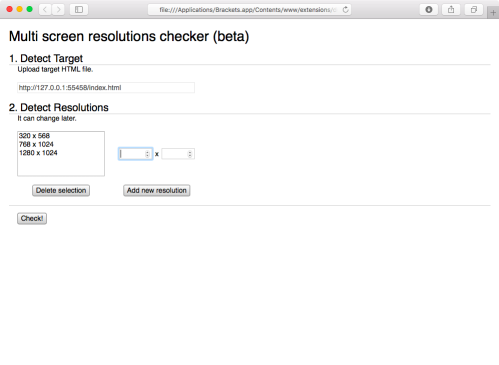
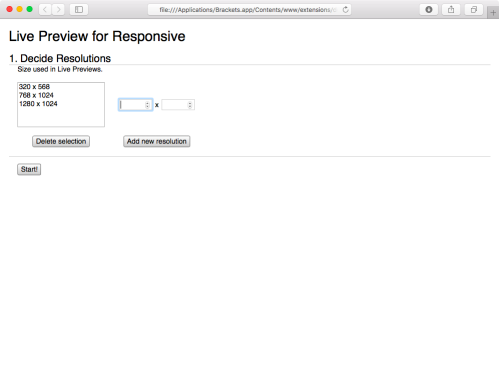
delete "decide target"

diff --git a/www/js/script.js b/www/js/script.js
@@ -16,7 +16,7 @@
   resolutions = null;
 
   init = function(event) {
-    var top_add, top_delete, top_done, top_target;
+    var top_add, top_delete, top_done;
     top = document.querySelector("#top");
     top_done = document.querySelector("#top_done");
     top_done.addEventListener("change", topDoneClicked, false);
@@ -53,19 +53,15 @@
     });
     target = window.launch_url;
     resolutions = [];
-    top_target = document.querySelector("#top_target");
-    top_target.value = target;
   };
 
   topDoneClicked = function(event) {
-    var frame_index, frame_value, label, option, radio, resolution_index, resolution_value, split, top_done, top_resolutions, top_target, _i, _j, _len, _len1;
+    var frame_index, frame_value, label, option, radio, resolution_index, resolution_value, split, top_done, top_resolutions, _i, _j, _len, _len1;
     top_done = event.target;
     if (top_done.checked) {
       top_done.nextSibling.innerHTML = "Back";
       top.style.display = "none";
       checker.style.display = "block";
-      top_target = document.querySelector("#top_target");
-      target = top_target.value;
       top_resolutions = document.querySelector("#top_resolutions");
       resolutions = (function() {
         var _i, _len, _ref, _results;
@@ -110,7 +106,7 @@
         document.querySelector("#frame" + frame_index + "-tab-" + frame_index).click();
       }
     } else {
-      top_done.nextSibling.innerHTML = "Check!";
+      top_done.nextSibling.innerHTML = "Start!";
       top.style.display = "block";
       checker.style.display = "none";
     }

diff --git a/www/index.html b/www/index.html
@@ -2,7 +2,7 @@
 <html>
 <head>
 <meta charset="UTF-8">
-<title>Multi screen resolution checker (beta)</title>
+<title>Live Preview for Responsive</title>
 <link rel="stylesheet" href="https://necolas.github.io/normalize.css/3.0.2/normalize.css">
 <link rel="stylesheet" href="css/style.css">
 <script src="js/config.js"></script>
@@ -13,27 +13,29 @@
 <div id="container">
 	<header>
 		<div>
-			<h1>Multi screen resolutions checker (beta)</h1>
+			<h1>Live Preview for Responsive</h1>
 		</div>
 	</header>
 	<div id="content">
 		<section>
 			<div id="top">
 				<ol>
+<!--
 					<li>
 						<div>
 							<h2>Detect Target</h2>
 							<p>Upload target HTML file.</p>
 							<div class="h2_content">
-<!--								<input type="file" id="top_target">-->
+								<input type="file" id="top_target">
 								<label for="top_target"></label><input type="text" id="top_target" disabled>
 							</div>
 						</div>
 					</li>
+-->
 					<li>
 						<div>
-							<h2>Detect Resolutions</h2>
-							<p>It can change later.</p>
+							<h2>Decide Resolutions</h2>
+							<p>Size used in Live Previews.</p>
 							<div class="clearfix h2_content">
 								<div class="left">
 									<div class="controls">
@@ -56,7 +58,7 @@
 				</ol>
 			</div>
 			<div id="top_buttons">
-				<input type="checkbox" id="top_done"><label for="top_done">Check!</label>
+				<input type="checkbox" id="top_done"><label for="top_done">Start!</label>
 <!--				<input type="checkbox" id="top_editmode"><label for="top_editmode">Edit Mode</label>-->
 			</div>
 		</section>

diff --git a/www/js/config.js b/www/js/config.js
@@ -1,1 +1,1 @@
-window.launch_url="http://127.0.0.1:55458/index.html";
+window.launch_url="http://127.0.0.1:55938/index.html";

diff --git a/README.md b/README.md
@@ -3,7 +3,7 @@ Extension for [Brackets](https://github.com/adobe/brackets/).
 
 Show two Live Previews for base CSS and difference CSS. Size of Live Previews can change for various resolutions.
 
-[Testing screen](screenshots/testing.png?raw=true)
+![Testing screen](screenshots/testing.png?raw=true)
 
 ##Installation
 
@@ -15,6 +15,7 @@ Show two Live Previews for base CSS and difference CSS. Size of Live Previews ca
 
 1. Open HTML or CSS File
 2. Click the "PC, mobile, and thunder" icon in the toolbar
-3. Detect resolutions (By default, 320x568, 768x1024, and 1240x1024)
-[Settings screen](screenshots/settings.png?raw=true)
-4. Click the "Check!" button
+3. Decide resolutions (By default, 320x568, 768x1024, and 1240x1024)
+4. Click the **Start!** button
+
+![Settings screen](screenshots/settings.png?raw=true)
